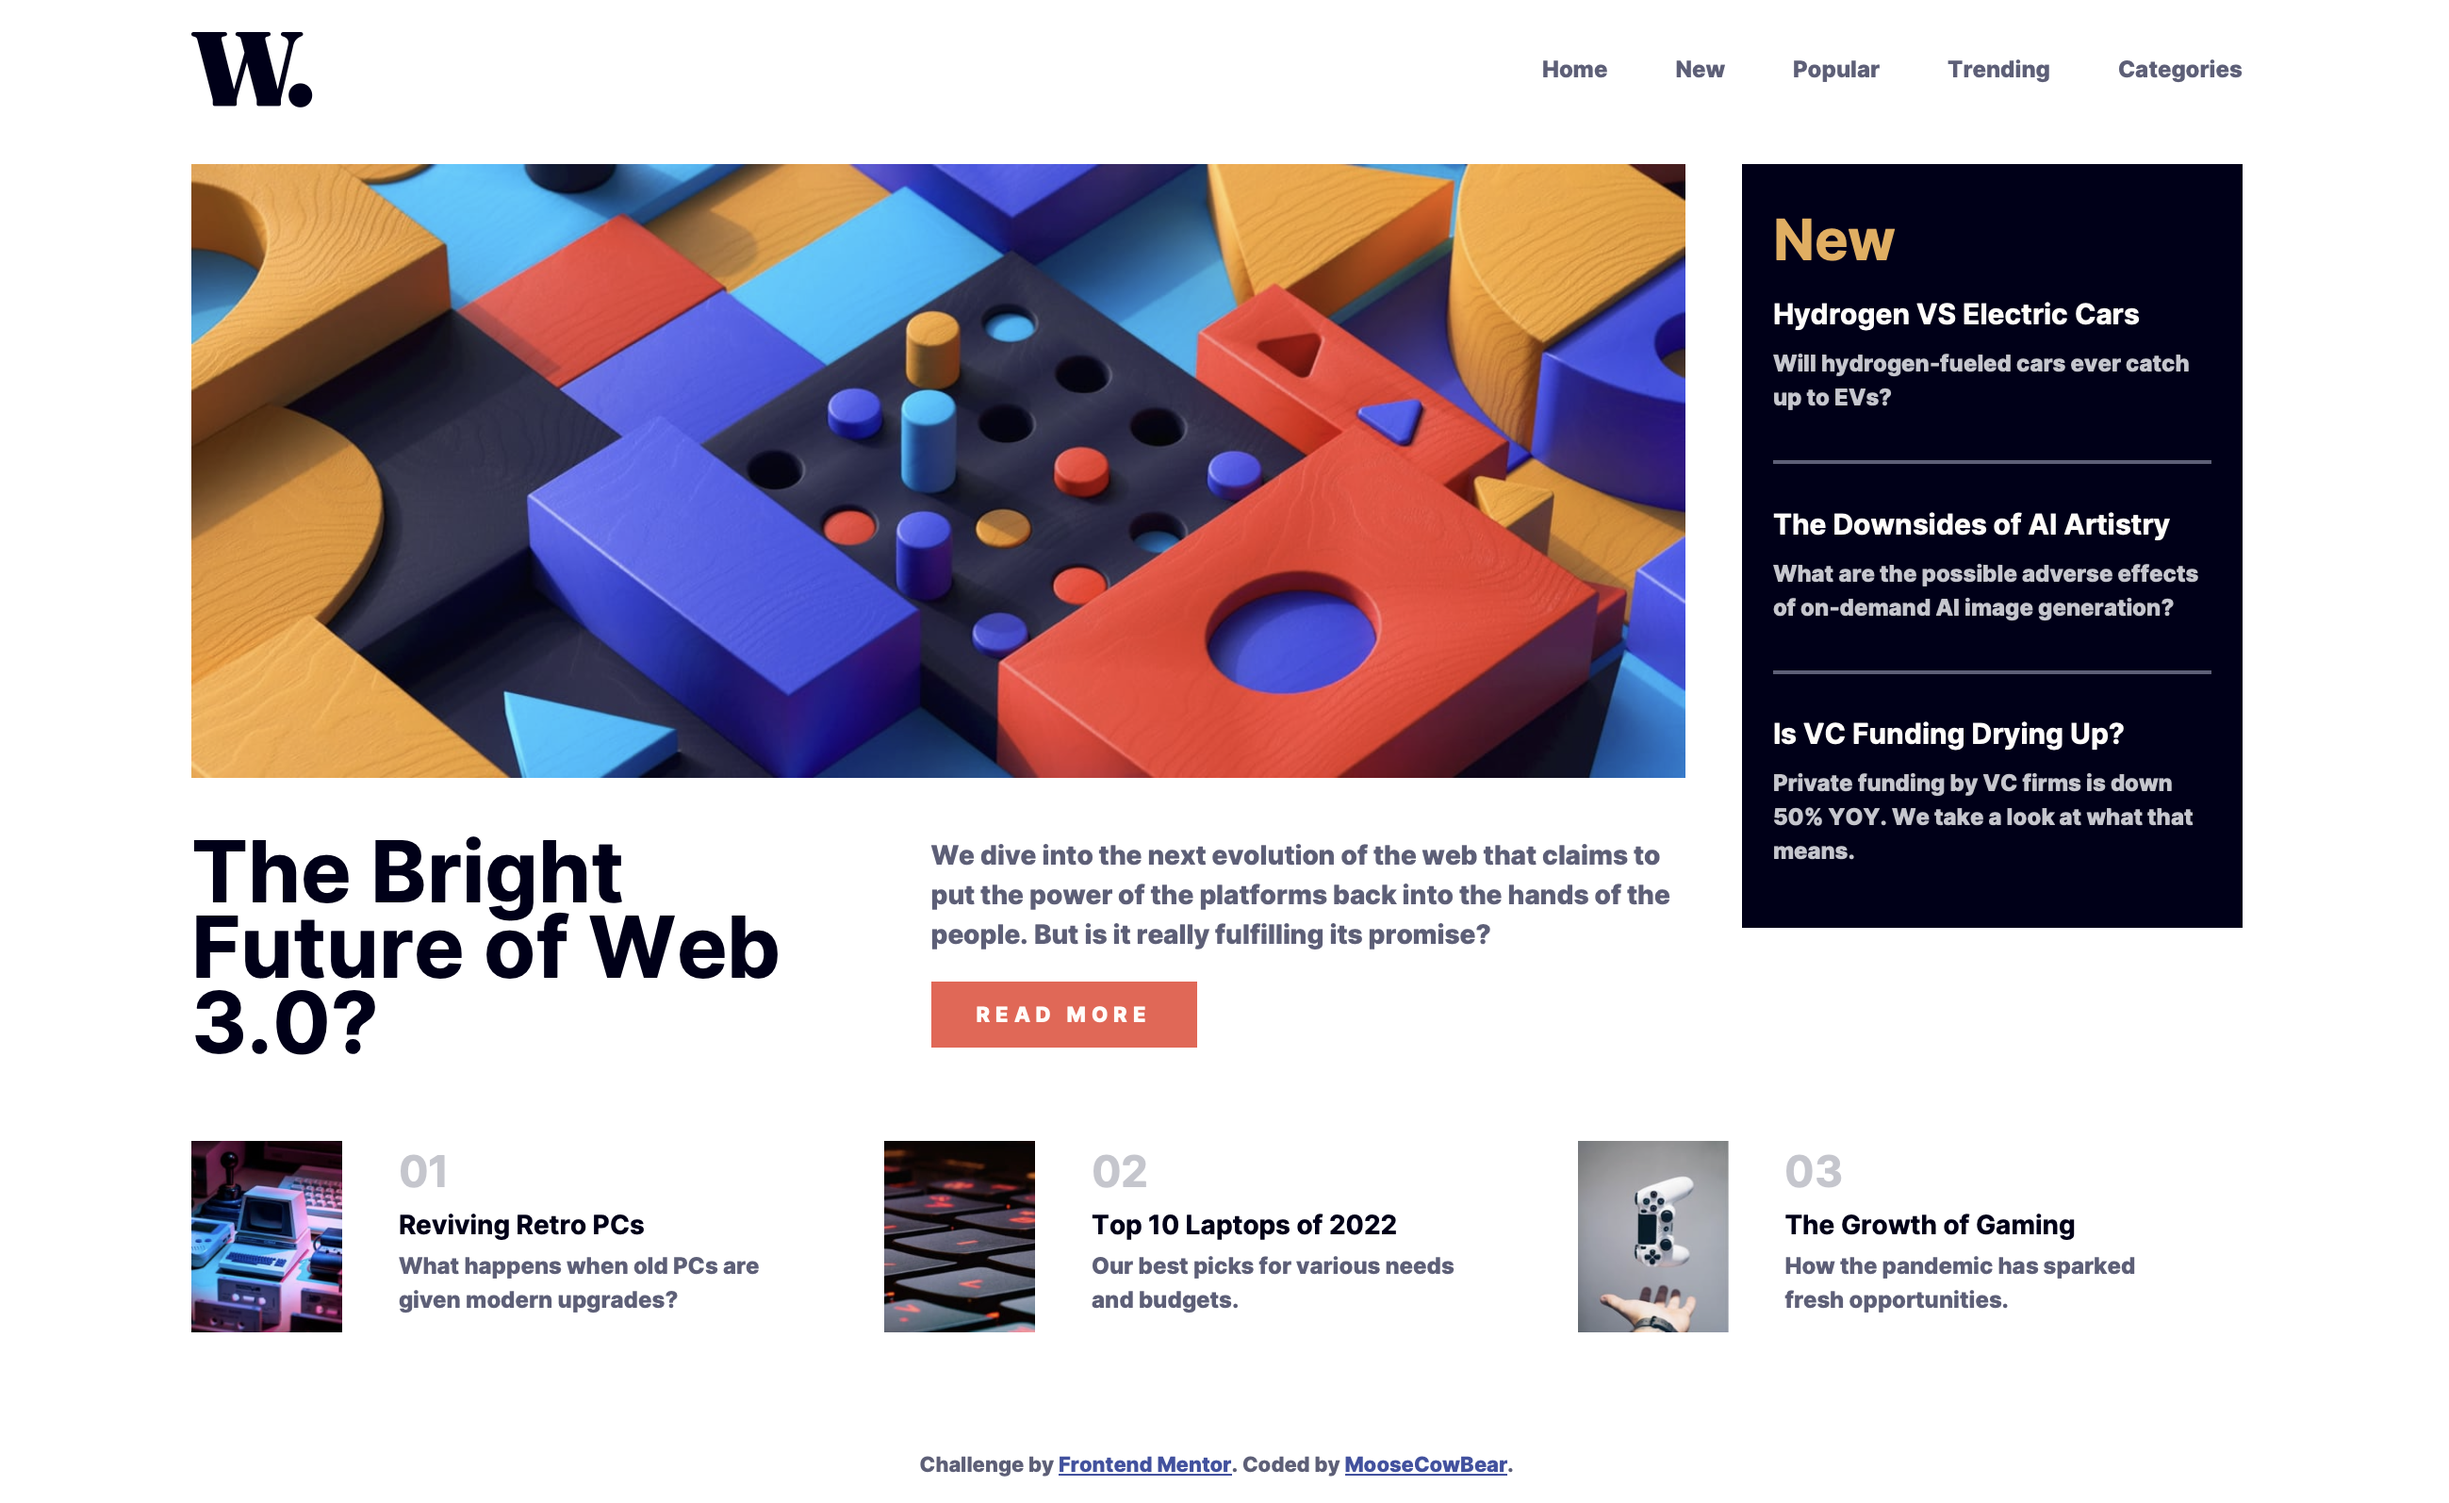
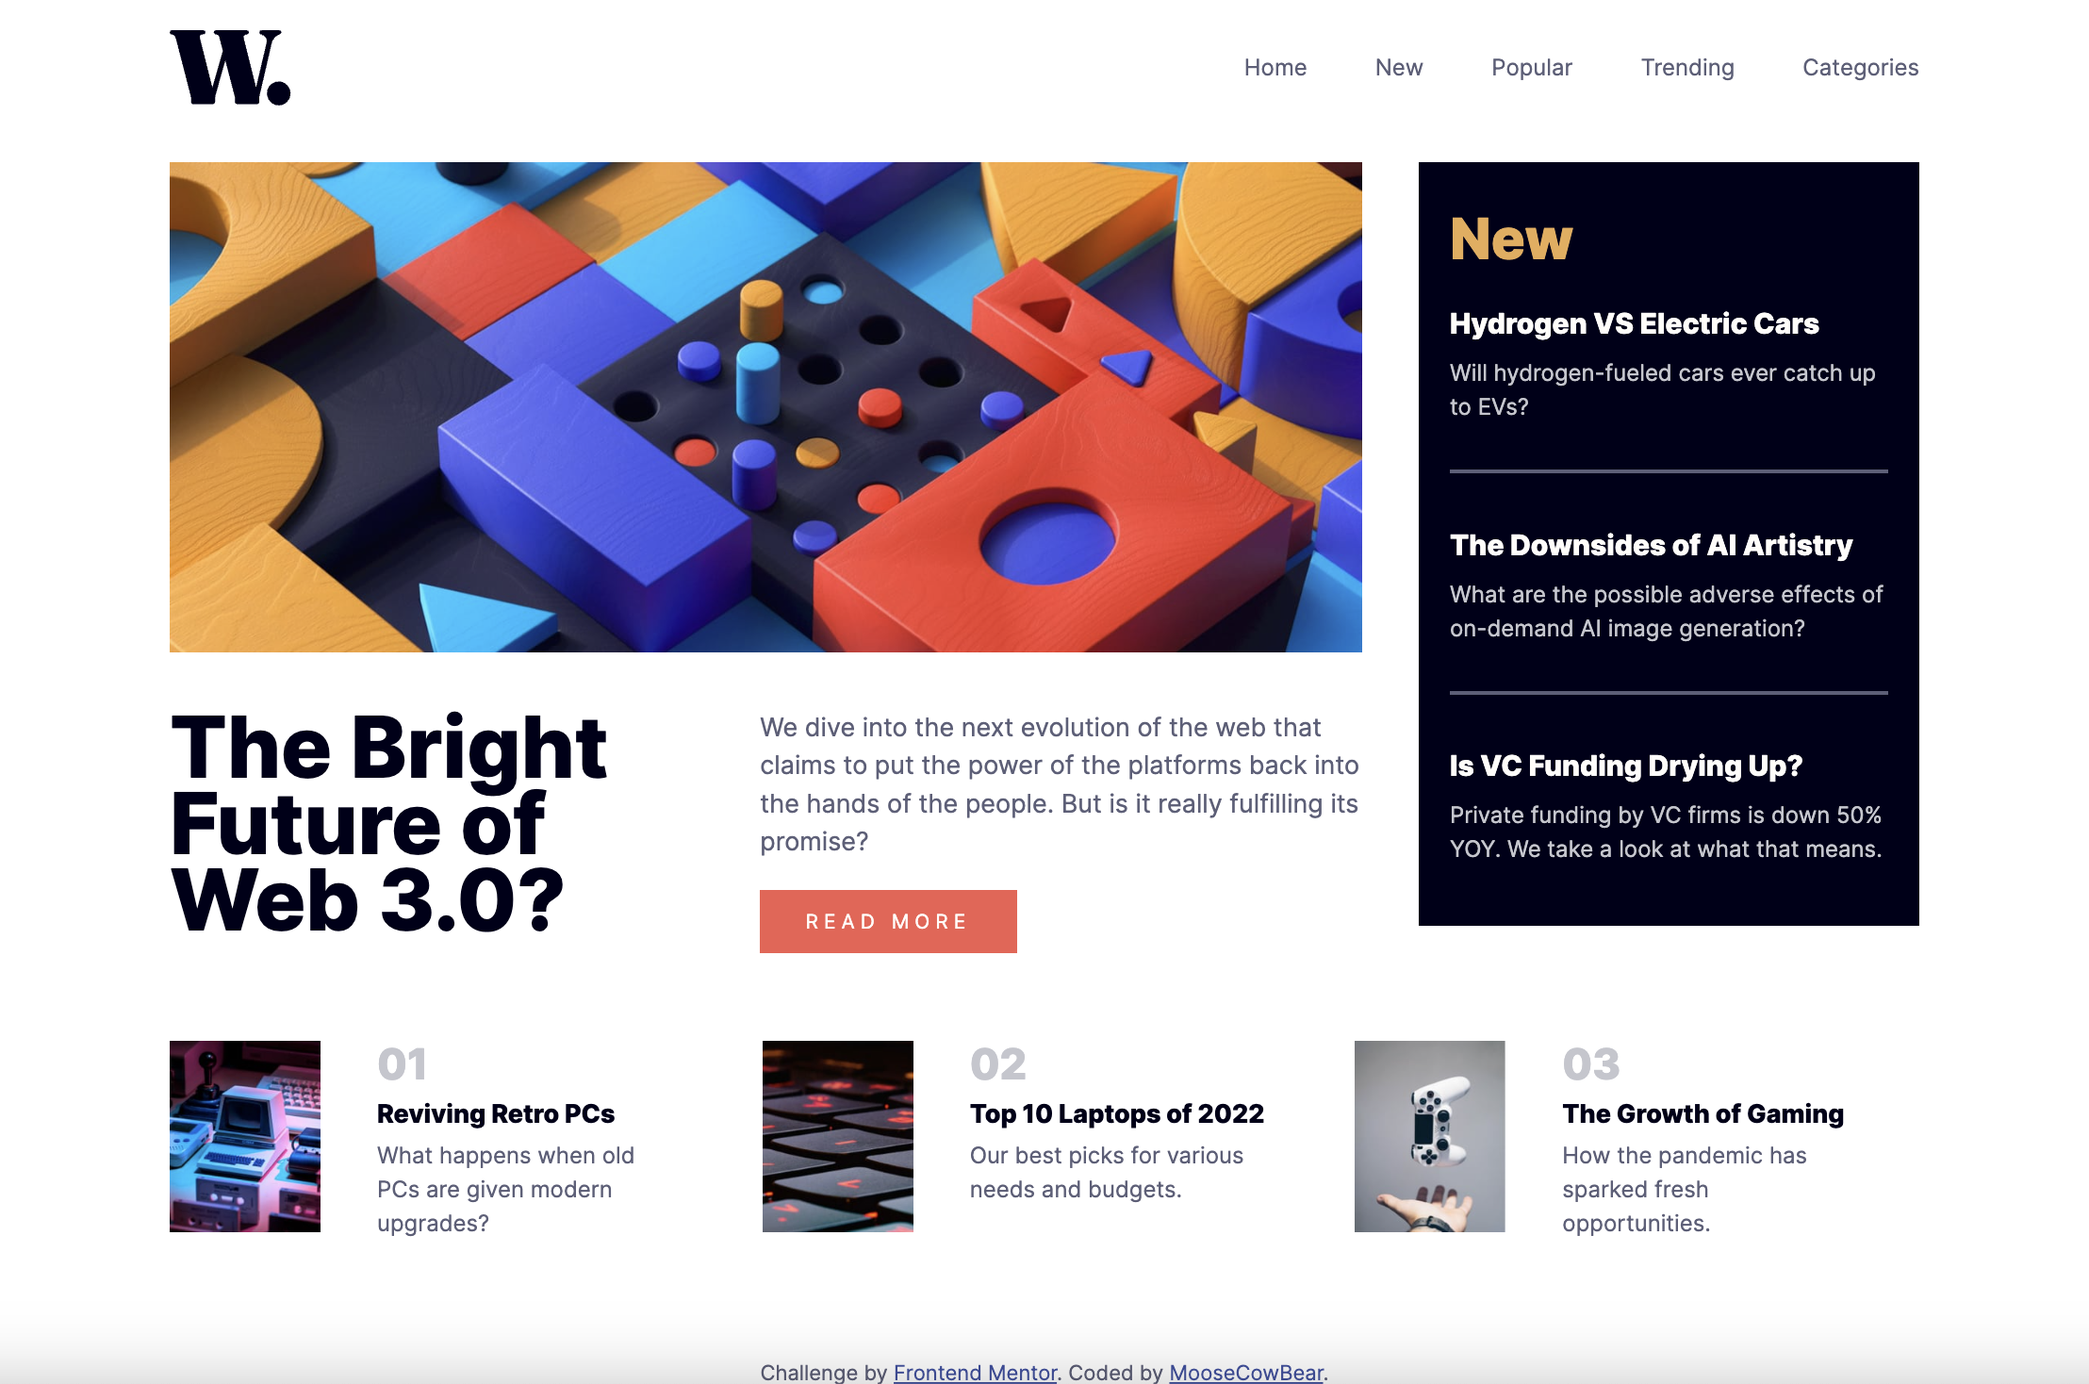
Fix font, update screenshot

diff --git a/styles.css b/styles.css
@@ -67,7 +67,7 @@ a:not([class]) {
 
 body {
     font-size: 15px;
-    font-family: "Hanken Grotesk", sans-serif; 
+    font-family: "Inter", sans-serif; 
     display: flex;
     flex-direction: column;
     align-items: center;
